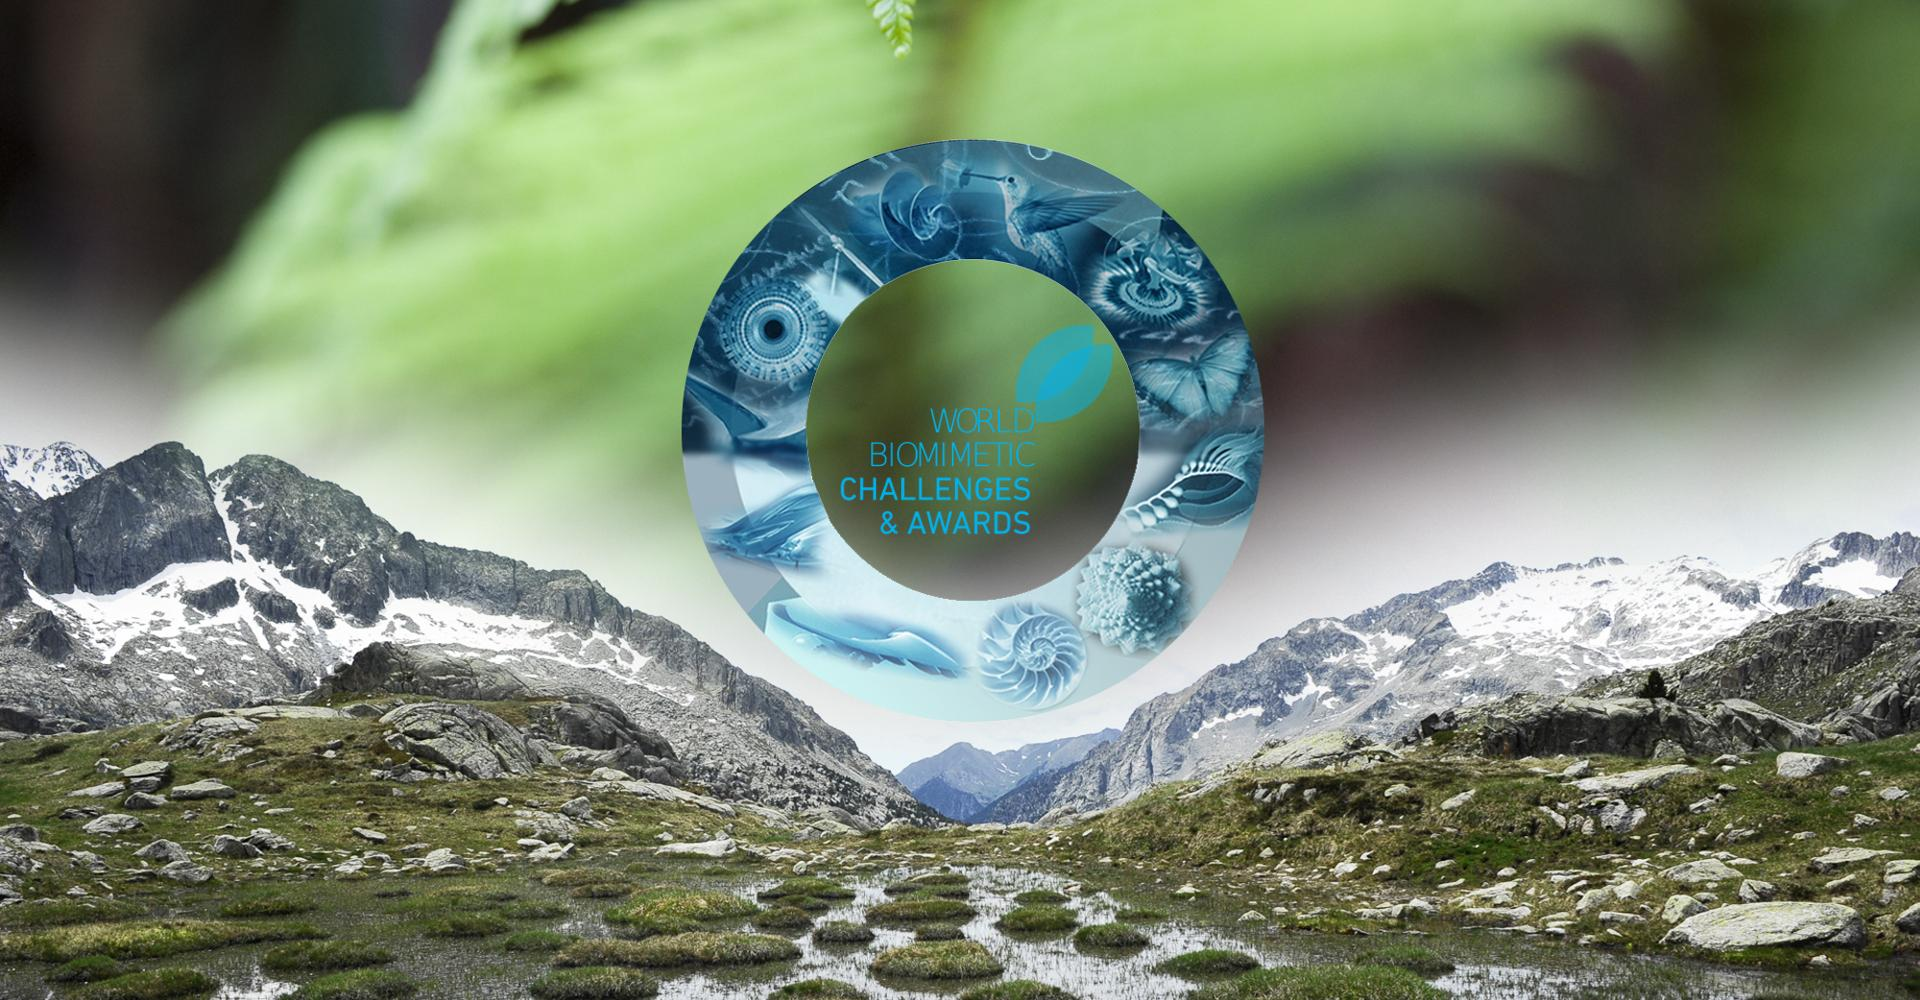
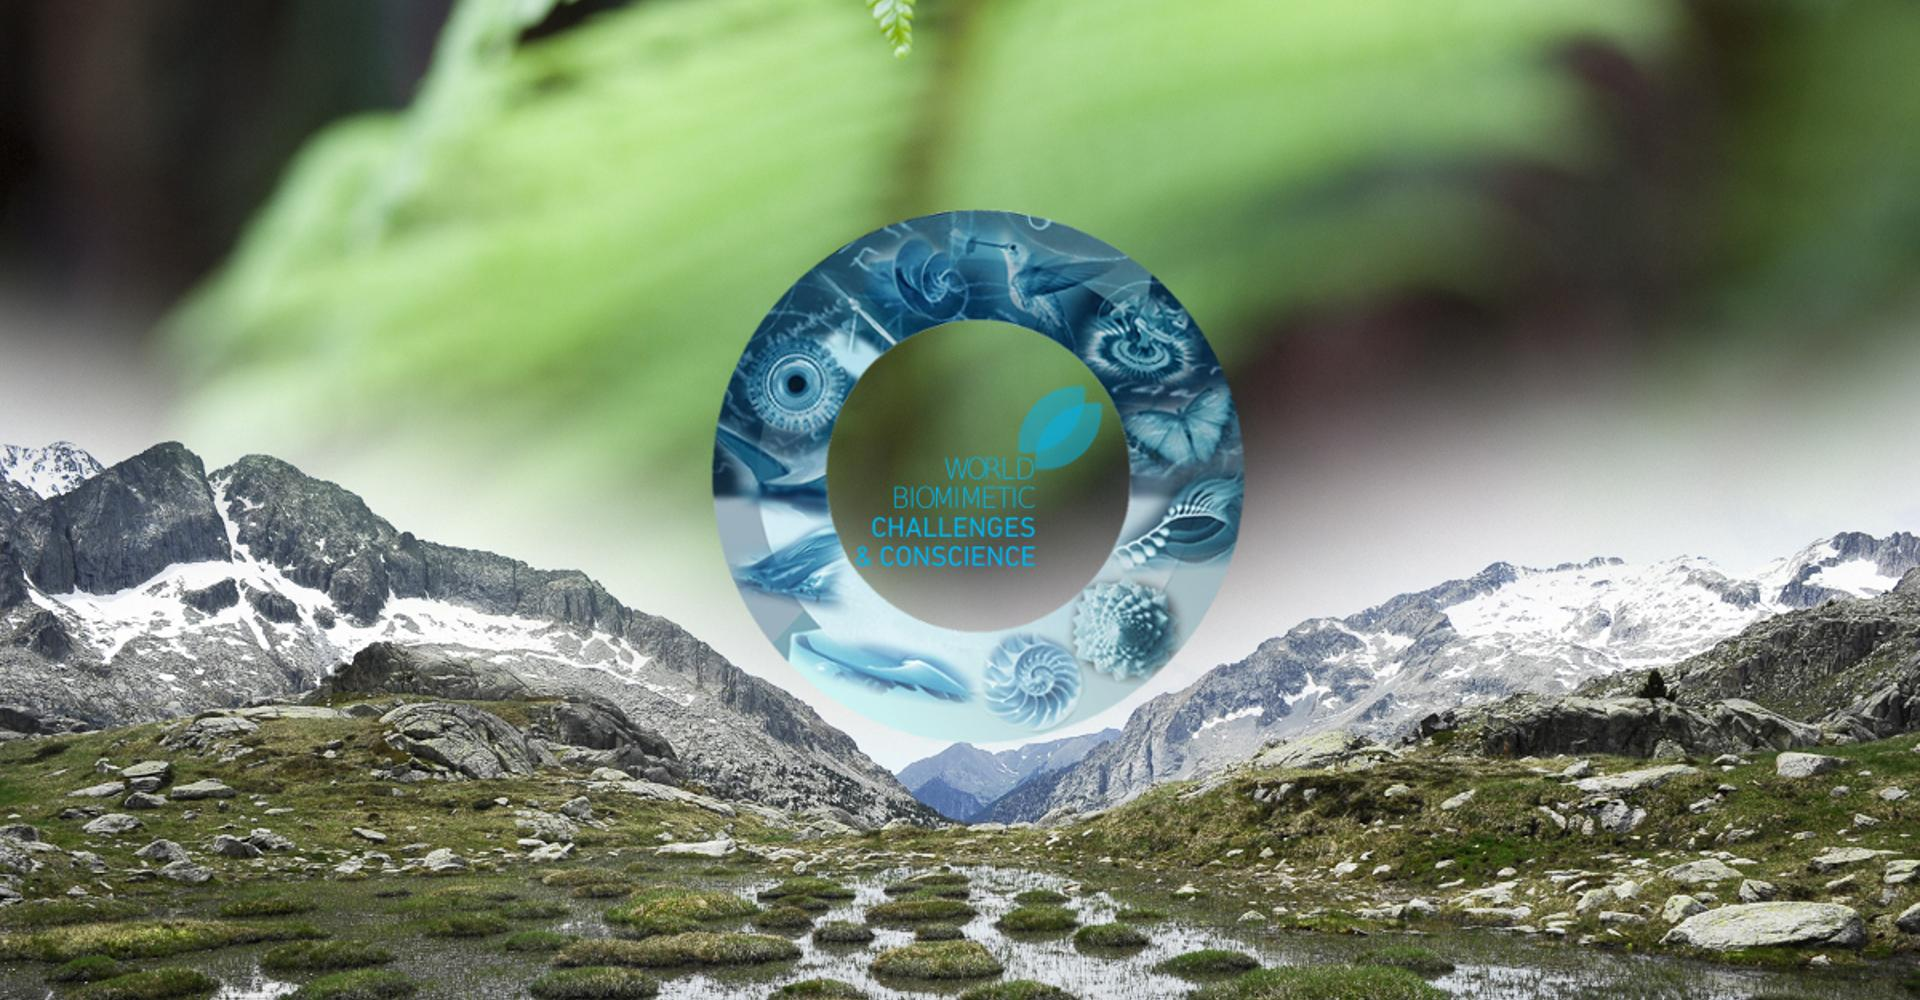
canviats els Awards per Conscience a data.

Changed region(s): [[0.3438, 0.124, 0.6562, 0.744], [0.4062, 0.775, 0.4375, 0.806]]

diff --git a/_posts/2016-03-11-conference-wbcha-javier-collado-ruano.md b/_posts/2016-03-11-conference-wbcha-javier-collado-ruano.md
@@ -1,6 +1,6 @@
 ---
 layout: person
-title:  "Conference WBChA: Javier Collado Ruano"
+title:  "Conference WBChC: Javier Collado Ruano"
 date:   2016-03-11 09:11:23 +0100
 category: conferences
 share: true
@@ -18,4 +18,7 @@ og-type: article
 	<h3 class="name"><a href="{{ conference.offers.url }}">{{ conference.name }}</a></h3>
 	<p class="text-alt"><small>{{ conference.startDate | date: "%B %d %-H:%M, %Y" }} | <strong>{{ conference.location.name }}</strong> | <a href="{{ conference.location.googleMap }}">{{ conference.location.address }}</a></small></p>
 	<p class="about text-left">{{ conference.description}} </p>
+	<div class="btns-container">
+		<a href="/#inscriptions" class="btn btn-md">SIGN UP TO THE EVENT!</a>
+	</div>
 </div>

diff --git a/_posts/2016-03-11-conference-wbcha-elisabet-sahtouris.md b/_posts/2016-03-11-conference-wbcha-elisabet-sahtouris.md
@@ -1,6 +1,6 @@
 ---
 layout: person
-title:  "Conference WBChA: Elisabet Sahtouris"
+title:  "Conference WBChC: Elisabet Sahtouris"
 date:   2016-03-11 09:11:23 +0100
 category: conferences
 share: true
@@ -18,4 +18,7 @@ og-type: article
 	<h3 class="name"><a href="{{ conference.offers.url }}">{{ conference.name }}</a></h3>
 	<p class="text-alt"><small>{{ conference.startDate | date: "%B %d %-H:%M, %Y" }} | <strong>{{ conference.location.name }}</strong> | <a href="{{ conference.location.googleMap }}">{{ conference.location.address }}</a></small></p>
 	<p class="about text-left">{{ conference.description}} </p>
+	<div class="btns-container">
+		<a href="/#inscriptions" class="btn btn-md">SIGN UP TO THE EVENT!</a>
+	</div>
 </div>

diff --git a/_posts/2016-03-11-conference-wbcha-nel-hofstra.md b/_posts/2016-03-11-conference-wbcha-nel-hofstra.md
@@ -1,6 +1,6 @@
 ---
 layout: person
-title:  "Conference WBChA: Nel Hofstra"
+title:  "Conference WBChC: Nel Hofstra"
 date:   2016-03-11 09:11:23 +0100
 category: conferences
 share: true
@@ -18,4 +18,7 @@ og-type: article
 	<h3 class="name"><a href="{{ conference.offers.url }}">{{ conference.name }}</a></h3>
 	<p class="text-alt"><small>{{ conference.startDate | date: "%B %d %-H:%M, %Y" }} | <strong>{{ conference.location.name }}</strong> | <a href="{{ conference.location.googleMap }}">{{ conference.location.address }}</a></small></p>
 	<p class="about text-left">{{ conference.description}} </p>
+	<div class="btns-container">
+		<a href="/#inscriptions" class="btn btn-md">SIGN UP TO THE EVENT!</a>
+	</div>
 </div>
